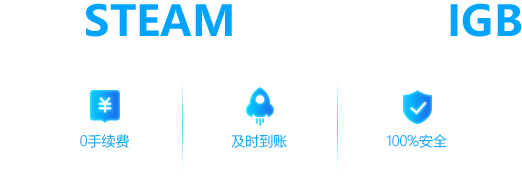
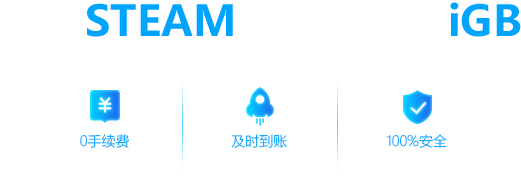
update

diff --git a/src/scss/index.scss b/src/scss/index.scss
@@ -27,7 +27,7 @@ body {
             height: 7.0625rem;
 
             img {
-                width: 8.1563rem;
+                width: 8.1406rem;
                 height: 2.8125rem;
             }
 
@@ -144,7 +144,7 @@ body {
                     .users-wrap {
                         position: relative;
                         display: inline-block;
-                        animation: moveSlideshow 20s linear infinite;
+                        // animation: moveSlideshow 20s linear infinite;
                     }
                     
                     .user {
@@ -530,7 +530,7 @@ body {
                     .users-wrap {
                         position: relative;
                         display: inline-block;
-                        animation: moveSlideshow 20s linear infinite;
+                        // animation: moveSlideshow 20s linear infinite;
                     }
                     
                     .user {

diff --git a/src/scss/customer-service.scss b/src/scss/customer-service.scss
@@ -137,6 +137,7 @@ body {
                                 border-radius: 16px;
                                 color: #fff;
                                 background-color: #00a4ff;
+                                cursor: pointer;
                             }
 
                             a {
@@ -224,6 +225,7 @@ body {
                                 border-radius: 16px;
                                 color: #fff;
                                 background-color: #00a4ff;
+                                cursor: pointer;
                             }
 
                             a {
